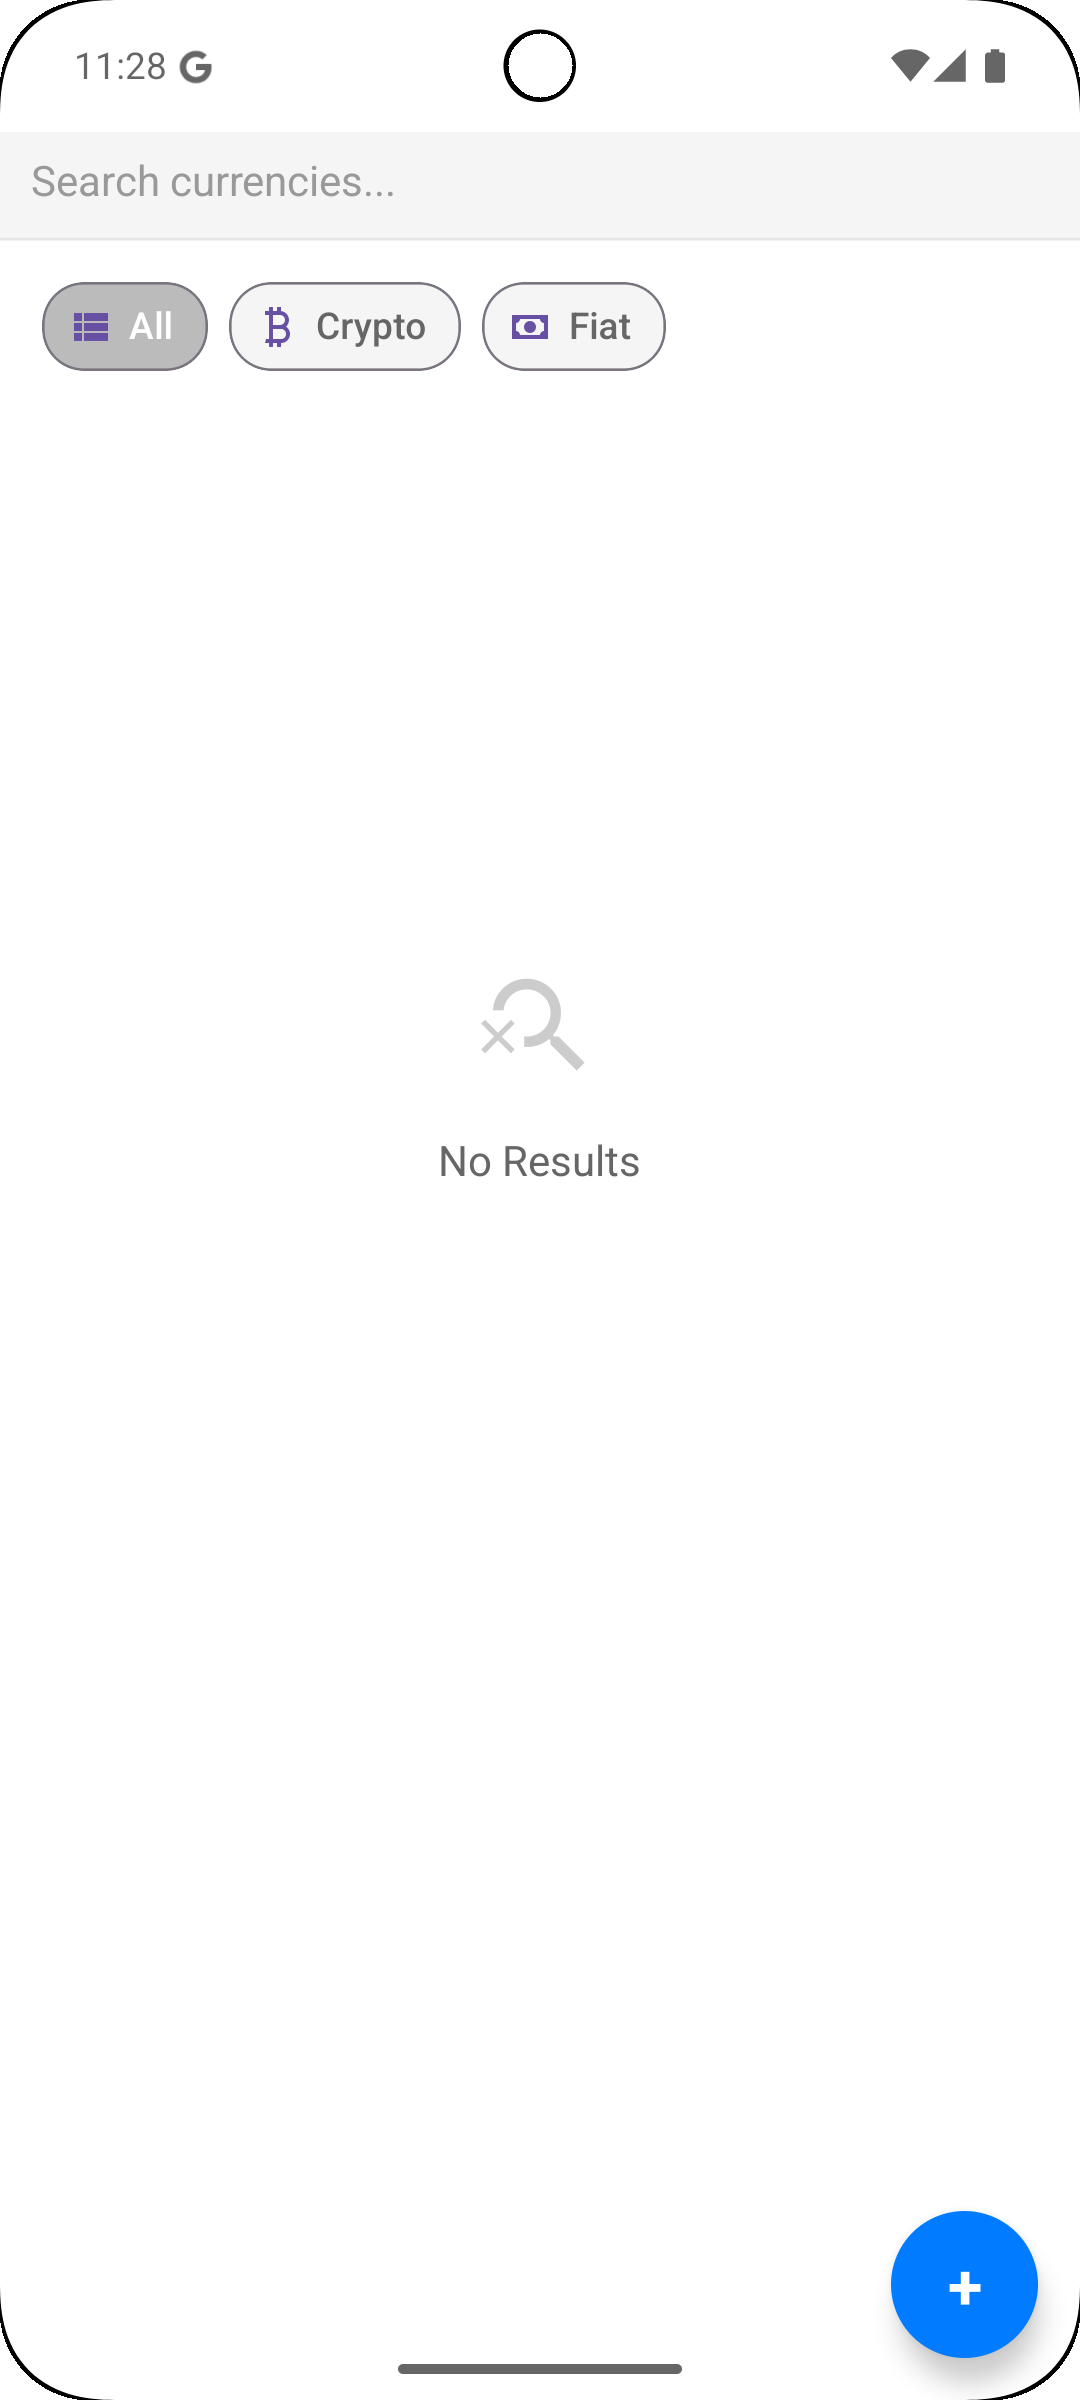
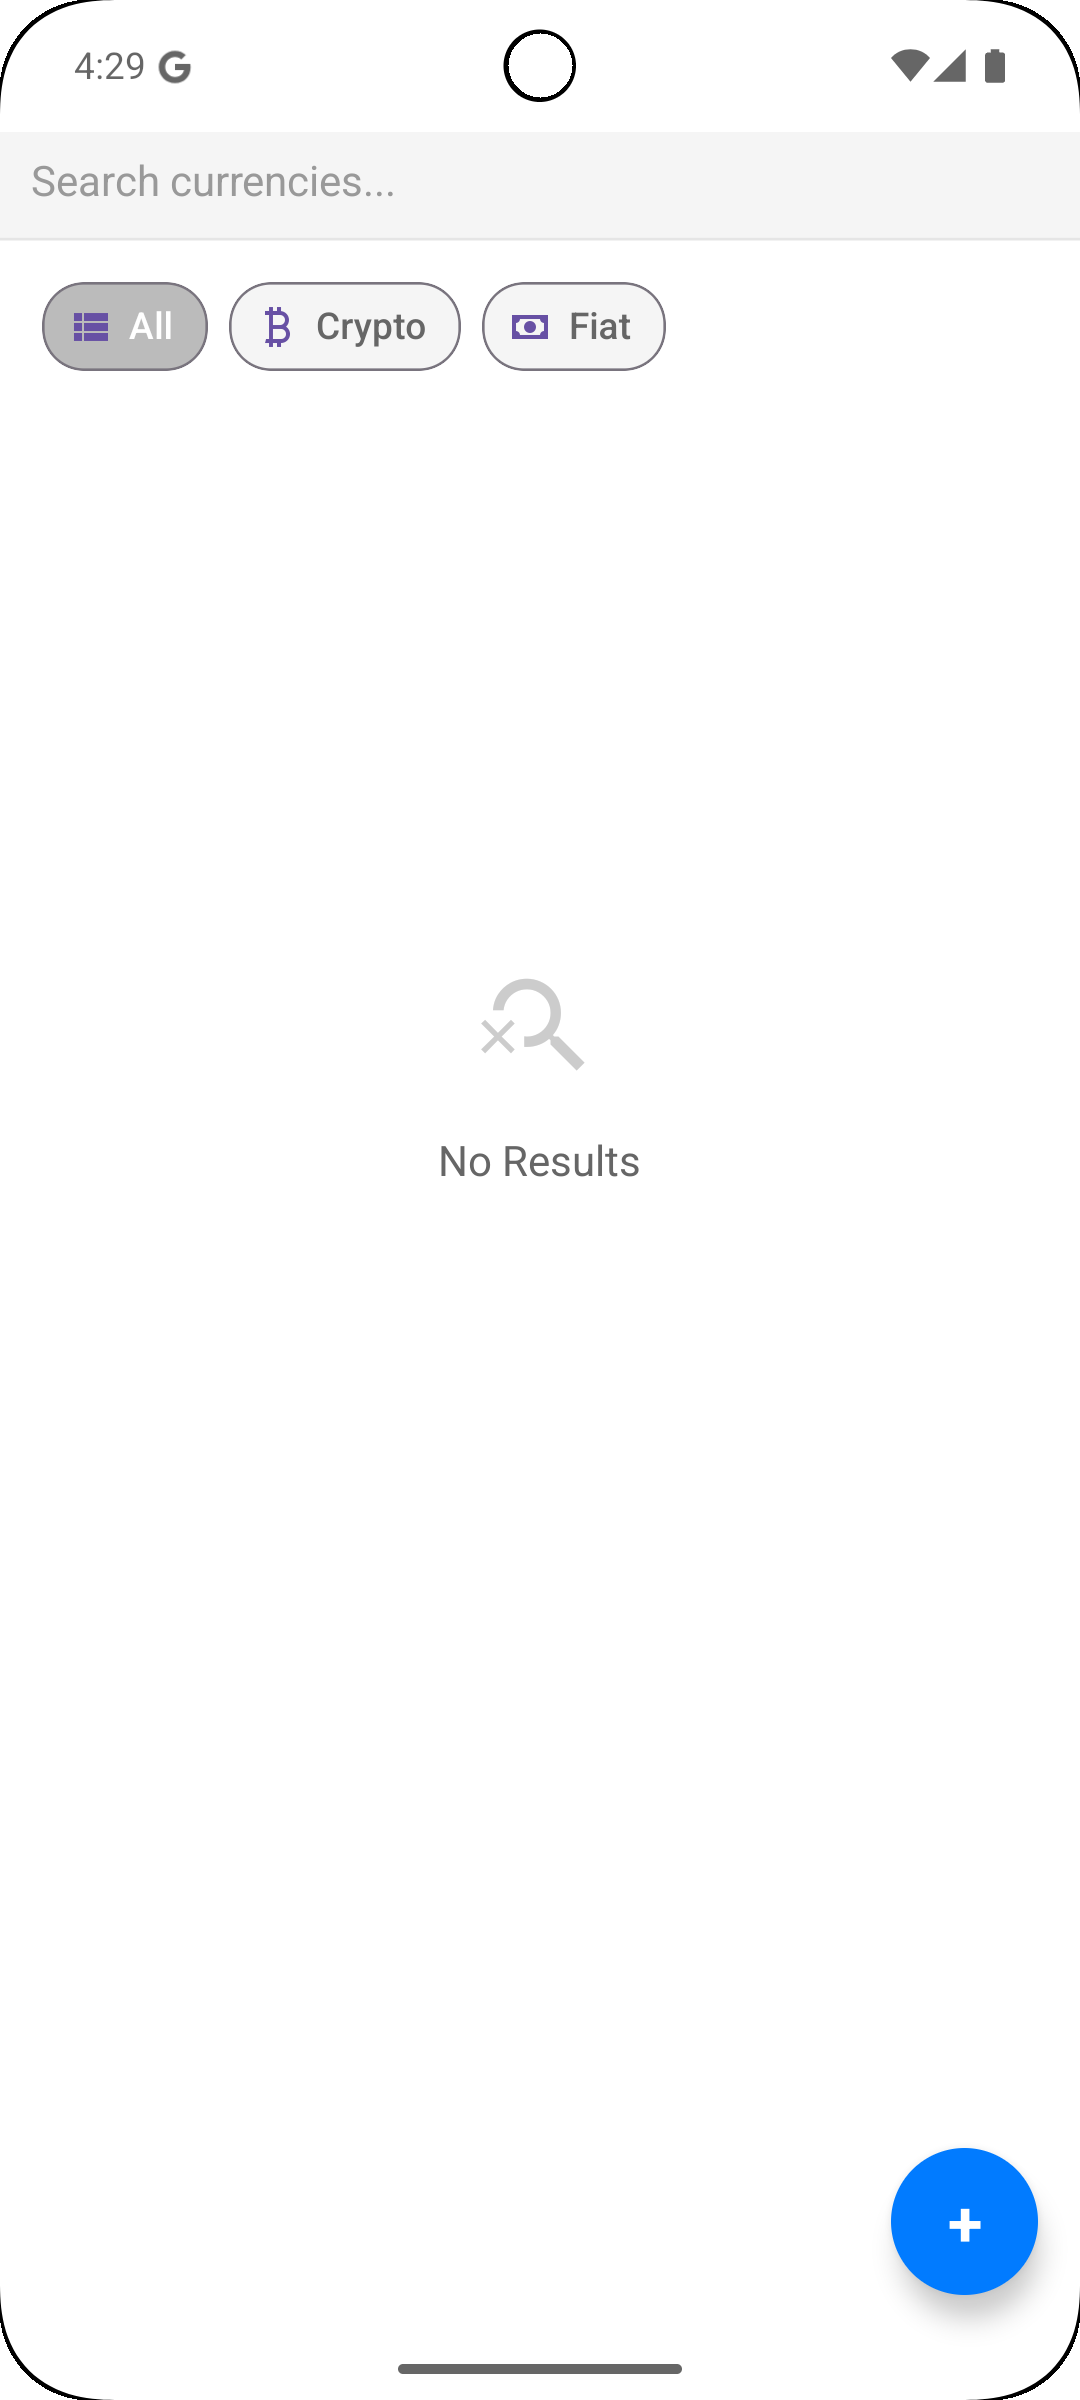
Update FAB location

Changed region(s): [[0.825, 0.875, 0.9778, 1.0], [0.0611, 0.0, 0.1833, 0.0312]]

diff --git a/app/components/FloatingActionMenu.tsx b/app/components/FloatingActionMenu.tsx
@@ -1,5 +1,6 @@
 import React, { useRef, useState } from 'react';
 import { Animated, Pressable, StyleSheet, Text, TouchableOpacity } from 'react-native';
+import { useSafeAreaInsets } from 'react-native-safe-area-context';
 
 type ActionItem = {
   label: string;
@@ -14,6 +15,7 @@ type Props = {
 const FloatingActionMenuComponent: React.FC<Props> = ({ actions }) => {
   const [isOpen, setIsOpen] = useState(false);
   const animation = useRef(new Animated.Value(0)).current;
+  const insets = useSafeAreaInsets();
 
   const toggleMenu = () => {
     const toValue = isOpen ? 0 : 1;
@@ -50,6 +52,10 @@ const FloatingActionMenuComponent: React.FC<Props> = ({ actions }) => {
     outputRange: [0, 0, 1],
   });
 
+  // Calculate safe bottom position
+  const fabBottomPosition = insets.bottom + 16;
+  const fabItemBottomPosition = insets.bottom + 24;
+
   return (
     <>
       {/* Backdrop */}
@@ -82,6 +88,7 @@ const FloatingActionMenuComponent: React.FC<Props> = ({ actions }) => {
             style={[
               styles.fabItem, 
               { 
+                bottom: fabItemBottomPosition,
                 transform: [{ translateY }],
                 opacity: buttonOpacity,
                 pointerEvents: isOpen ? 'auto' : 'none'
@@ -110,7 +117,7 @@ const FloatingActionMenuComponent: React.FC<Props> = ({ actions }) => {
 
       {/* Main FAB */}
       <TouchableOpacity 
-        style={styles.fab} 
+        style={[styles.fab, { bottom: fabBottomPosition }]} 
         onPress={toggleMenu}
         activeOpacity={0.8}
         testID="fab-main"
@@ -137,7 +144,6 @@ const styles = StyleSheet.create({
   fab: {
     position: 'absolute',
     right: 16,
-    bottom: 16,
     width: 56,
     height: 56,
     borderRadius: 28,
@@ -162,7 +168,6 @@ const styles = StyleSheet.create({
   fabItem: {
     position: 'absolute',
     right: 24,
-    bottom: 24,
     zIndex: 2,
   },
   fabItemButton: {

diff --git a/app/components/__tests__/FloatingActionMenu.test.tsx b/app/components/__tests__/FloatingActionMenu.test.tsx
@@ -2,6 +2,10 @@ import { fireEvent, render } from '@testing-library/react-native';
 import React from 'react';
 import FloatingActionMenu from '../FloatingActionMenu';
 
+jest.mock('react-native-safe-area-context', () => ({
+  useSafeAreaInsets: () => 0,
+}));
+
 describe('FloatingActionMenu', () => {
   const mockActions = [
     {
